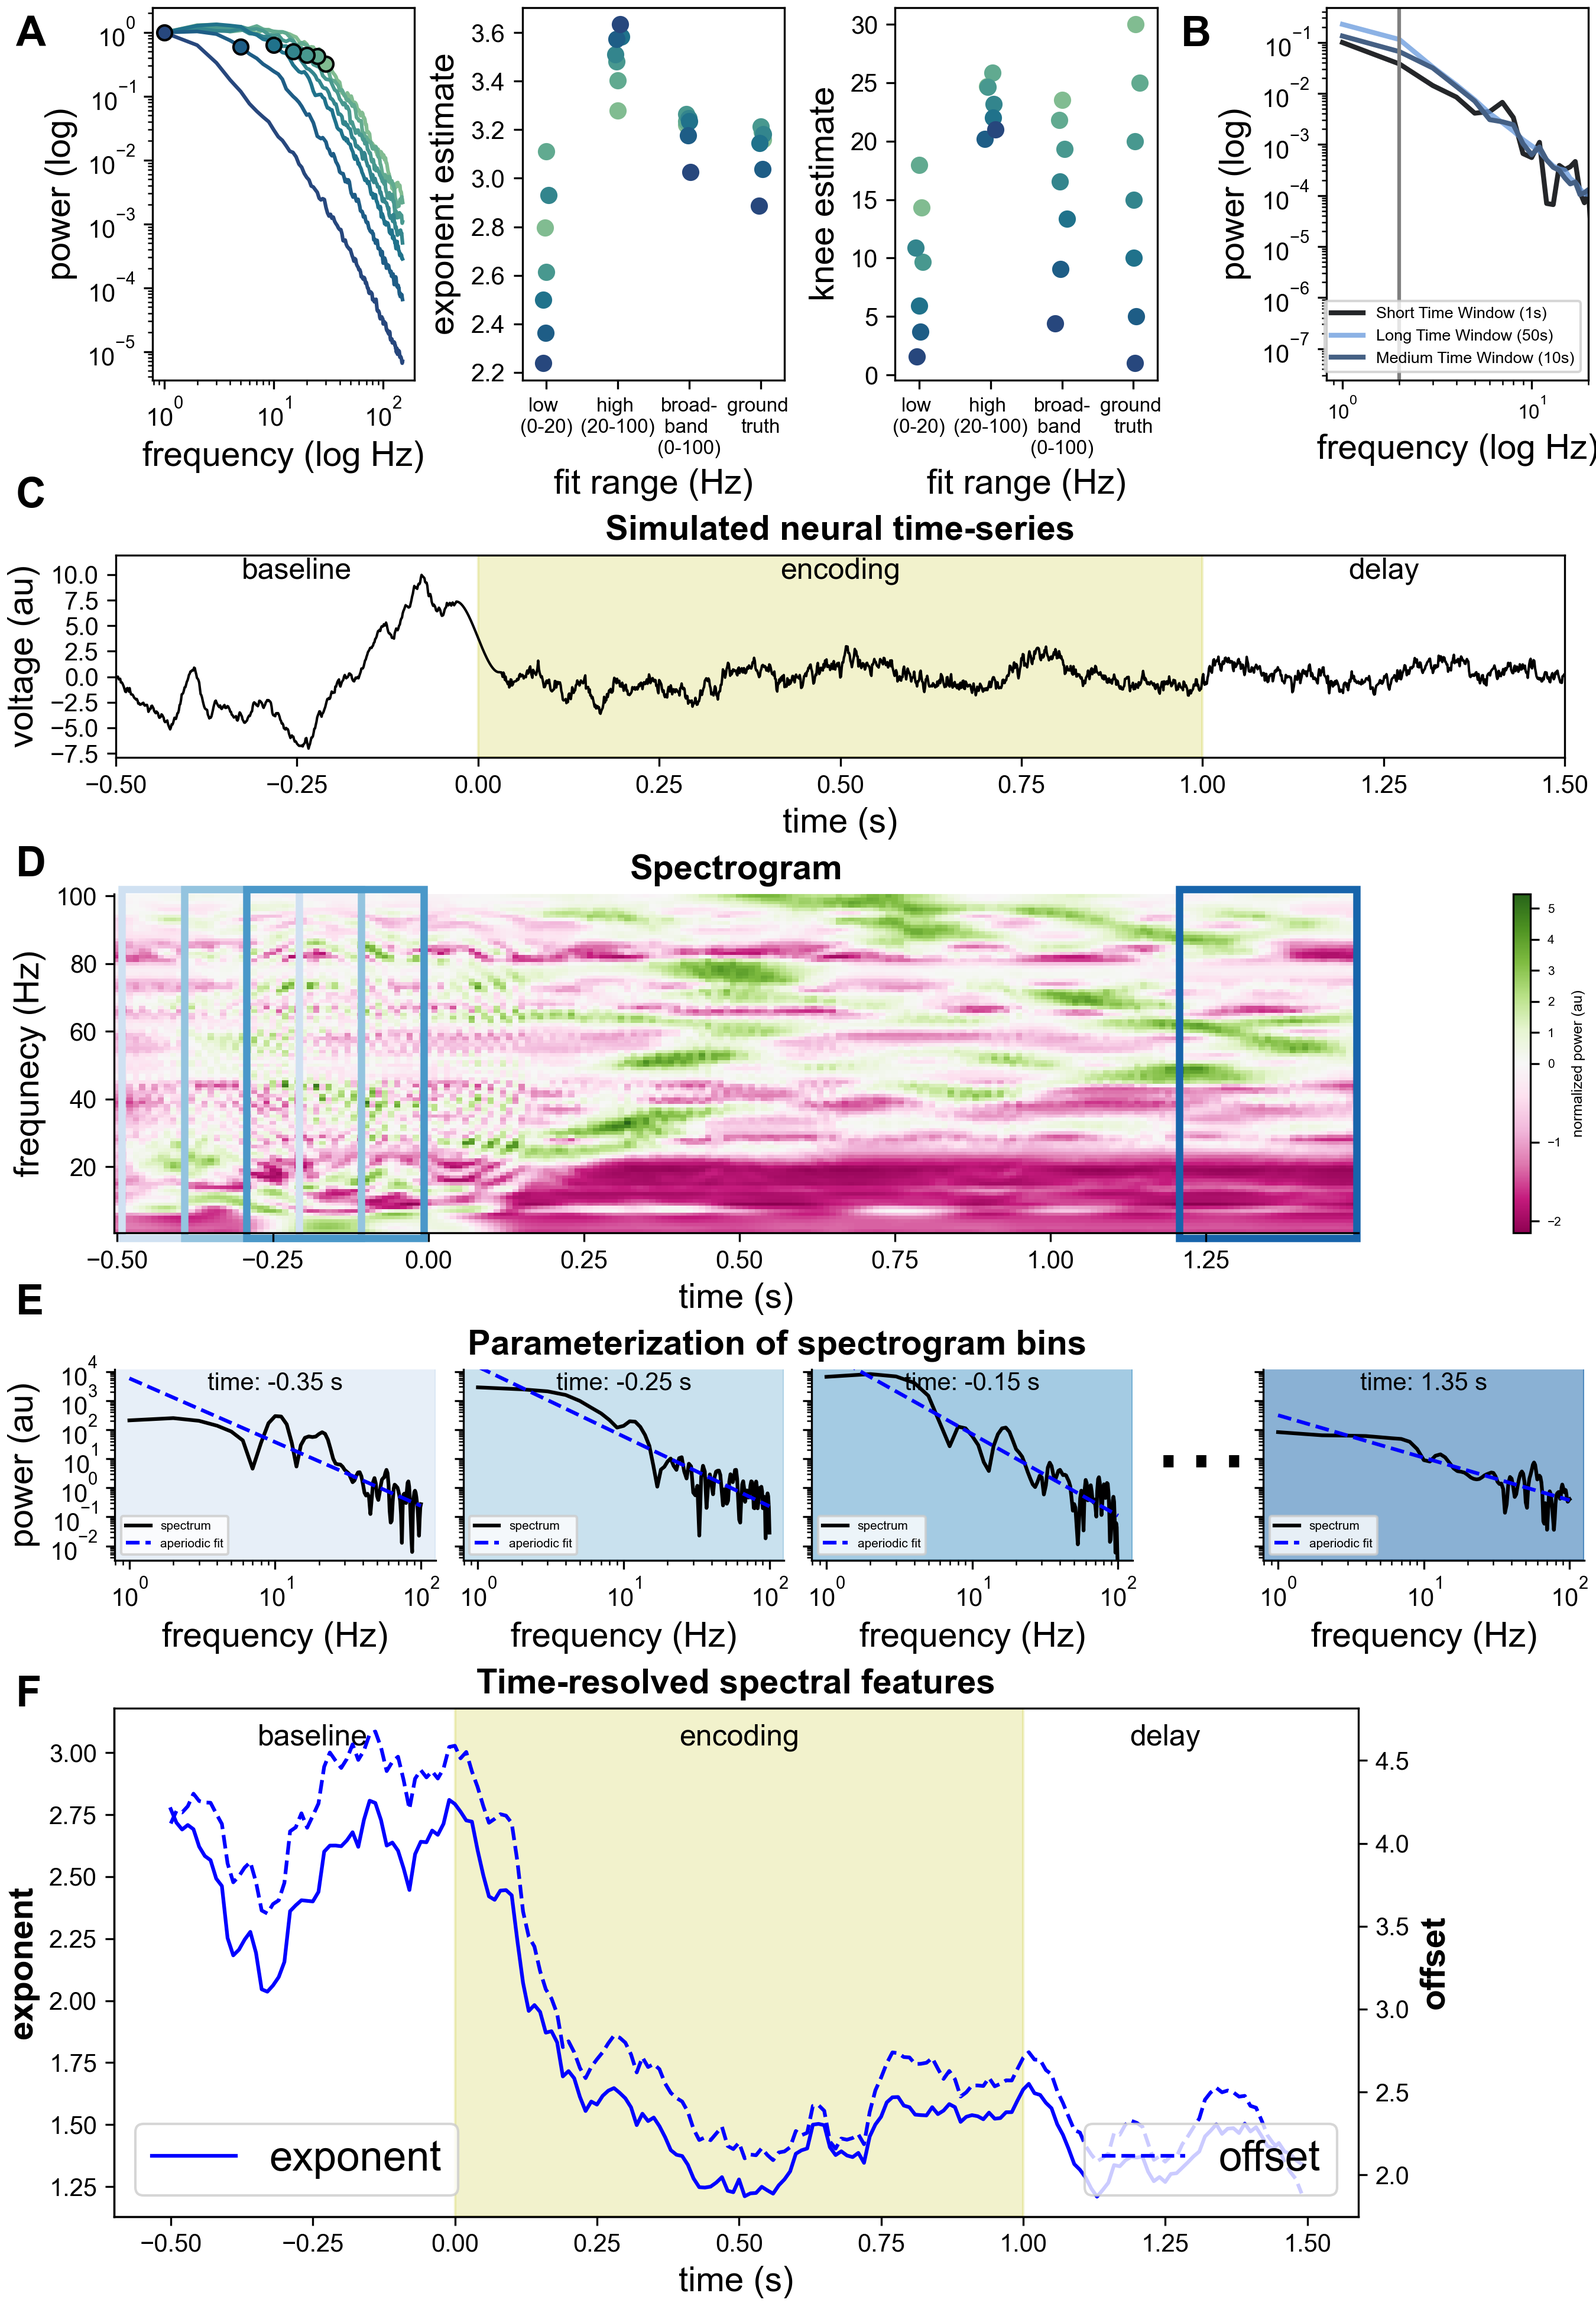
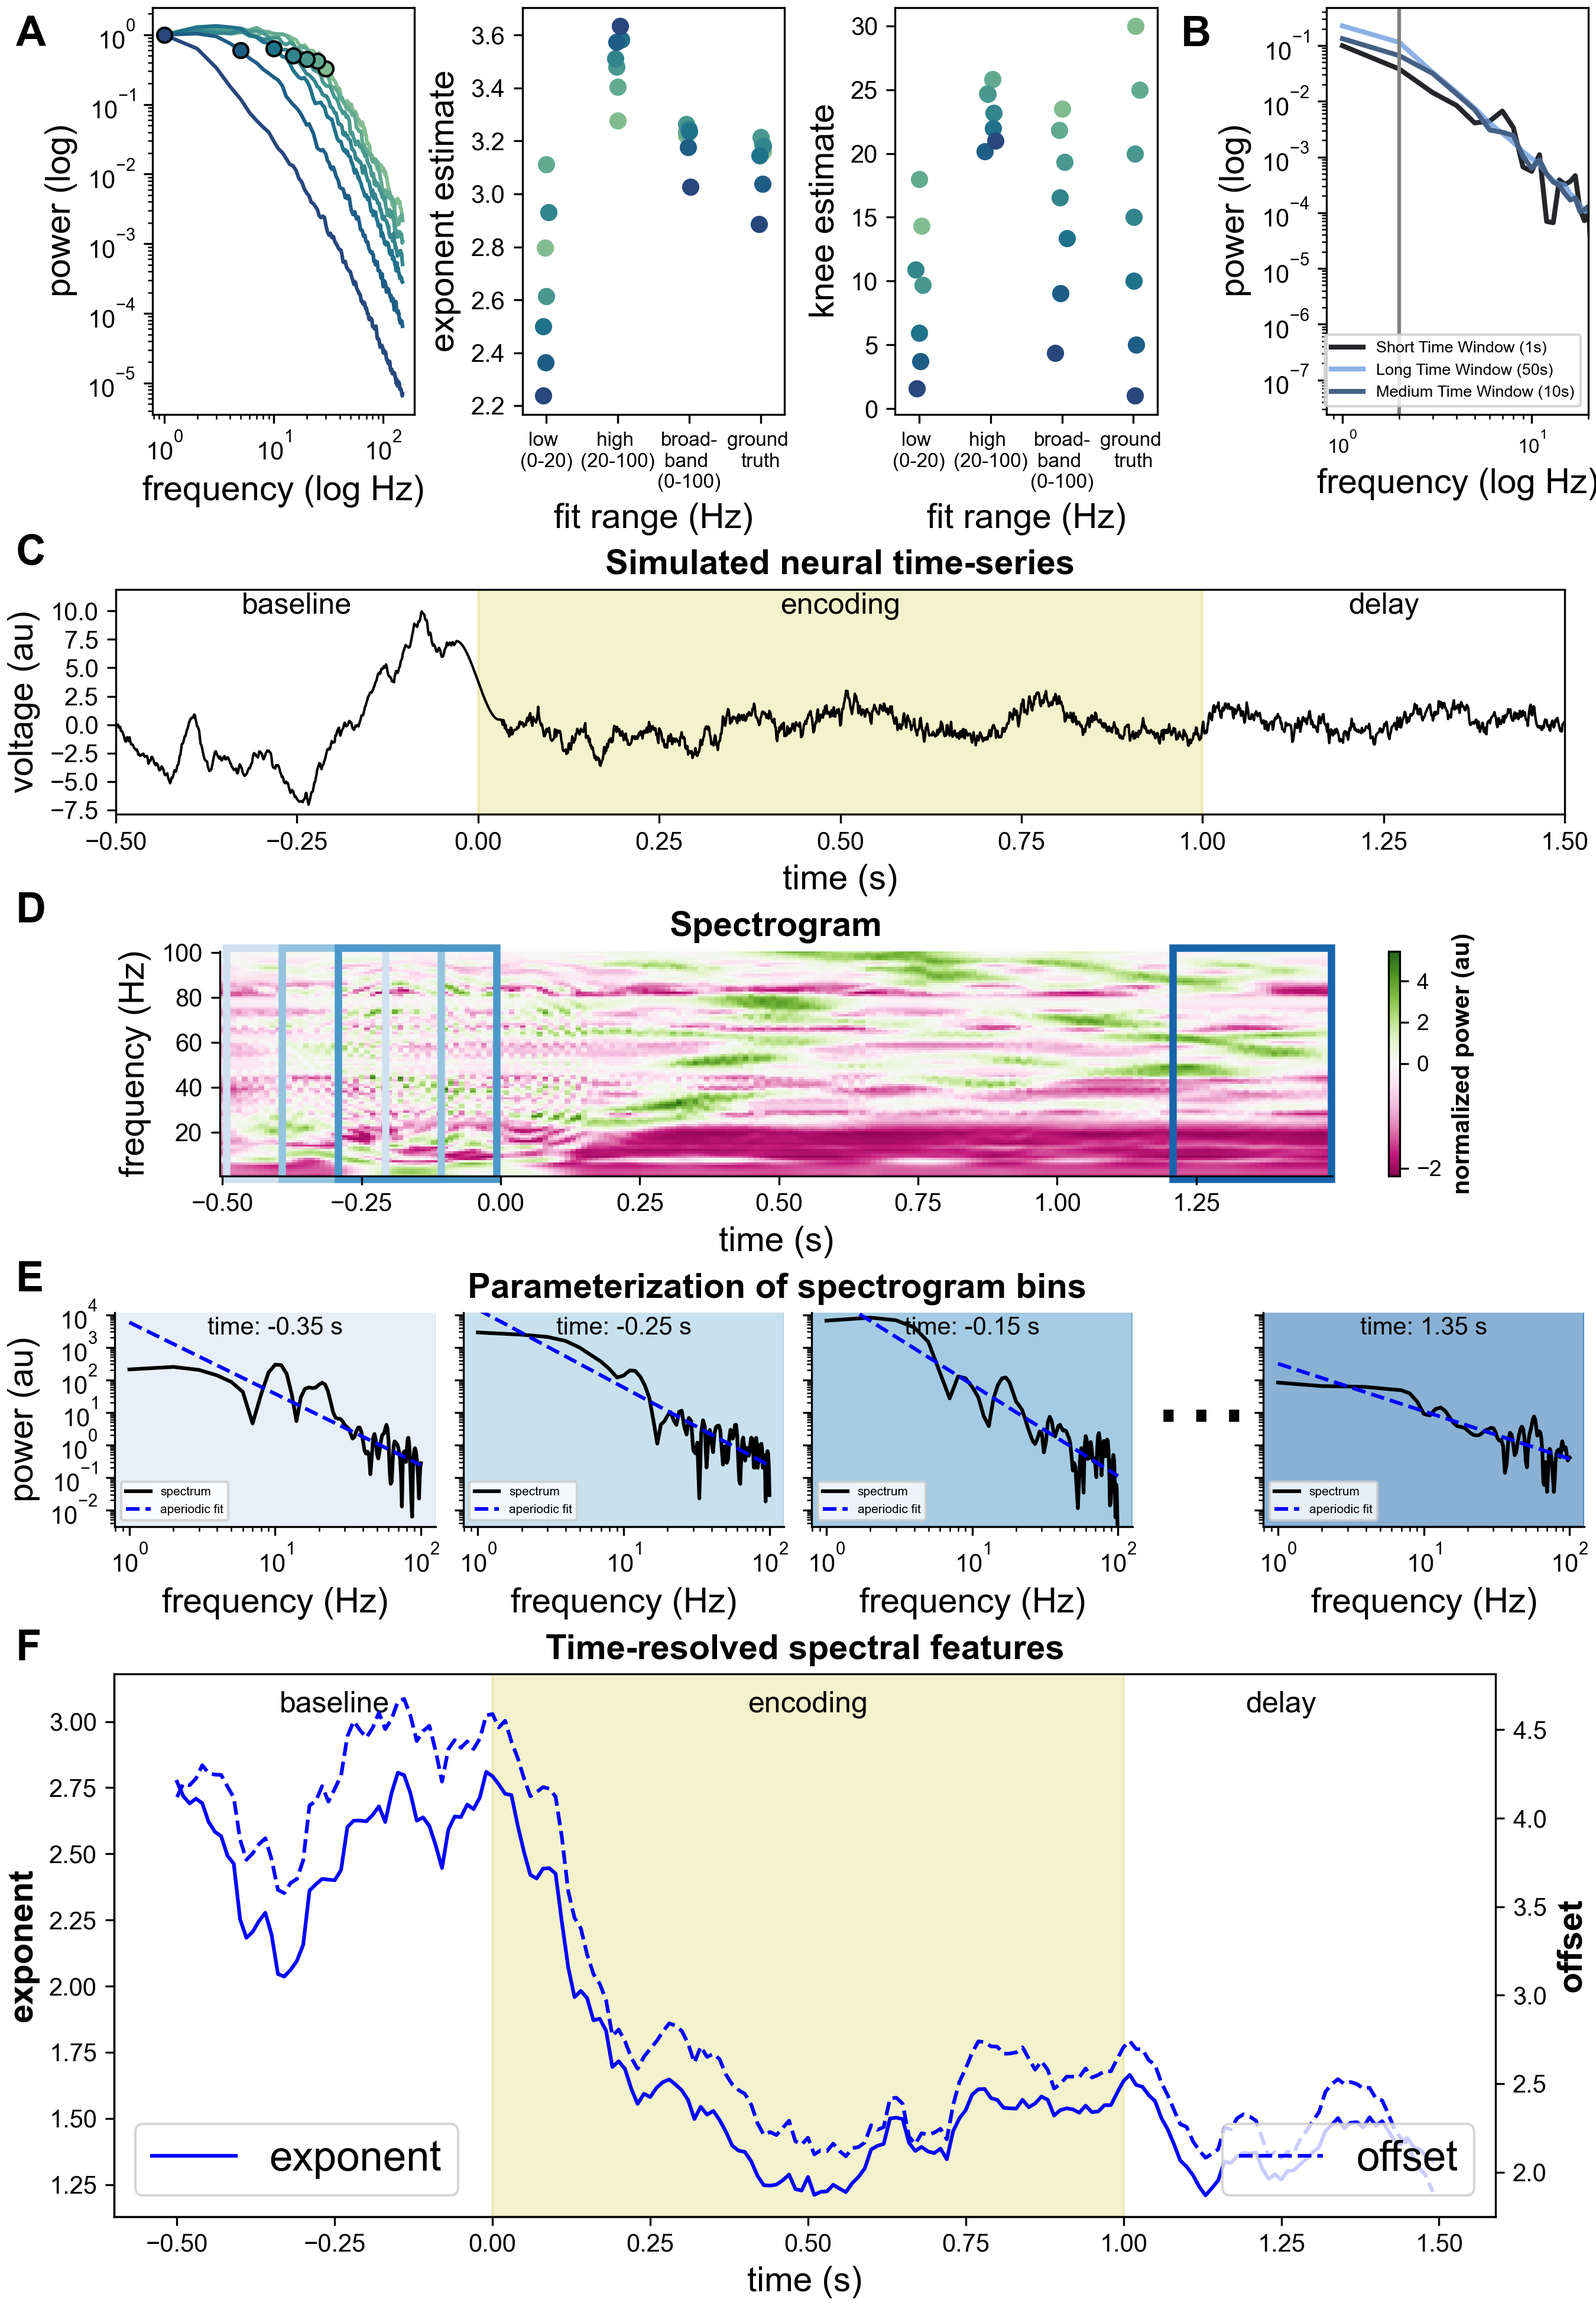
centering figures for fig 2

diff --git a/scripts/figure_2.py b/scripts/figure_2.py
@@ -105,7 +105,9 @@ def main():
     ax_a_subplot.set_yticklabels(ax_a_subplot.get_yticklabels(), fontsize=AXES_FONTSIZE)
 
     # Compute and plot TFR
-    ax_b = fig.add_subplot(gs[2])
+    ax_b_all = gridspec.GridSpecFromSubplotSpec(1, 3, subplot_spec=gs[2],
+                                            width_ratios=[0.1,1,0.1])
+    ax_b = fig.add_subplot(ax_b_all[1])#fig.add_subplot(gs[2])
     tfr, time_tfr, freqs = compute_and_plot_tfr(sig, fig, ax_b)
     ax_b.set_xticklabels(ax_b.get_xticklabels(), fontsize=AXES_FONTSIZE)
     ax_b.set_yticklabels(ax_b.get_yticklabels(), fontsize=AXES_FONTSIZE)
@@ -144,10 +146,10 @@ def main():
     # add panel labels
     fig.text(0.01, 0.98, 'A', fontsize=PANEL_FONTSIZE, fontweight='bold')
     fig.text(0.74, 0.98, 'B', fontsize=PANEL_FONTSIZE, fontweight='bold')
-    fig.text(0.01, 0.78, 'C', fontsize=PANEL_FONTSIZE, fontweight='bold')
-    fig.text(0.01, 0.62, 'D', fontsize=PANEL_FONTSIZE, fontweight='bold')
-    fig.text(0.01, 0.43, 'E', fontsize=PANEL_FONTSIZE, fontweight='bold')
-    fig.text(0.01, 0.26, 'F', fontsize=PANEL_FONTSIZE, fontweight='bold')
+    fig.text(0.01, 0.755, 'C', fontsize=PANEL_FONTSIZE, fontweight='bold')
+    fig.text(0.01, 0.60, 'D', fontsize=PANEL_FONTSIZE, fontweight='bold')
+    fig.text(0.01, 0.44, 'E', fontsize=PANEL_FONTSIZE, fontweight='bold')
+    fig.text(0.01, 0.28, 'F', fontsize=PANEL_FONTSIZE, fontweight='bold')
 
     # remove spines
     for ax in [ ax_b, *axes_c, ax_d]:

diff --git a/code/tfr_utils.py b/code/tfr_utils.py
@@ -58,10 +58,13 @@ def plot_evoked_tfr(tfr, freqs, time, title=None, annotate_time=0,
     # plot normalized spectrogram
     ax.pcolormesh(time, freqs, tfr, cmap=cmap, shading='auto',
                   norm=TwoSlopeNorm(vcenter=0))
-    ax.set(xlabel="time (s)", ylabel="frequnecy (Hz)")
-    fig.colorbar(ax.pcolormesh(time, freqs, tfr, cmap=cmap, 
+    ax.set(xlabel="time (s)", ylabel="frequency (Hz)")
+    cbar = fig.colorbar(ax.pcolormesh(time, freqs, tfr, cmap=cmap, 
                                norm=TwoSlopeNorm(vcenter=0)), ax=ax,
                                label="normalized power (au)")
+    cbar.ax.tick_params(labelsize=9)
+    cbar.set_label("normalized power (au)", size=10, weight="bold")
+
     
     # label
     if annotate_time:
